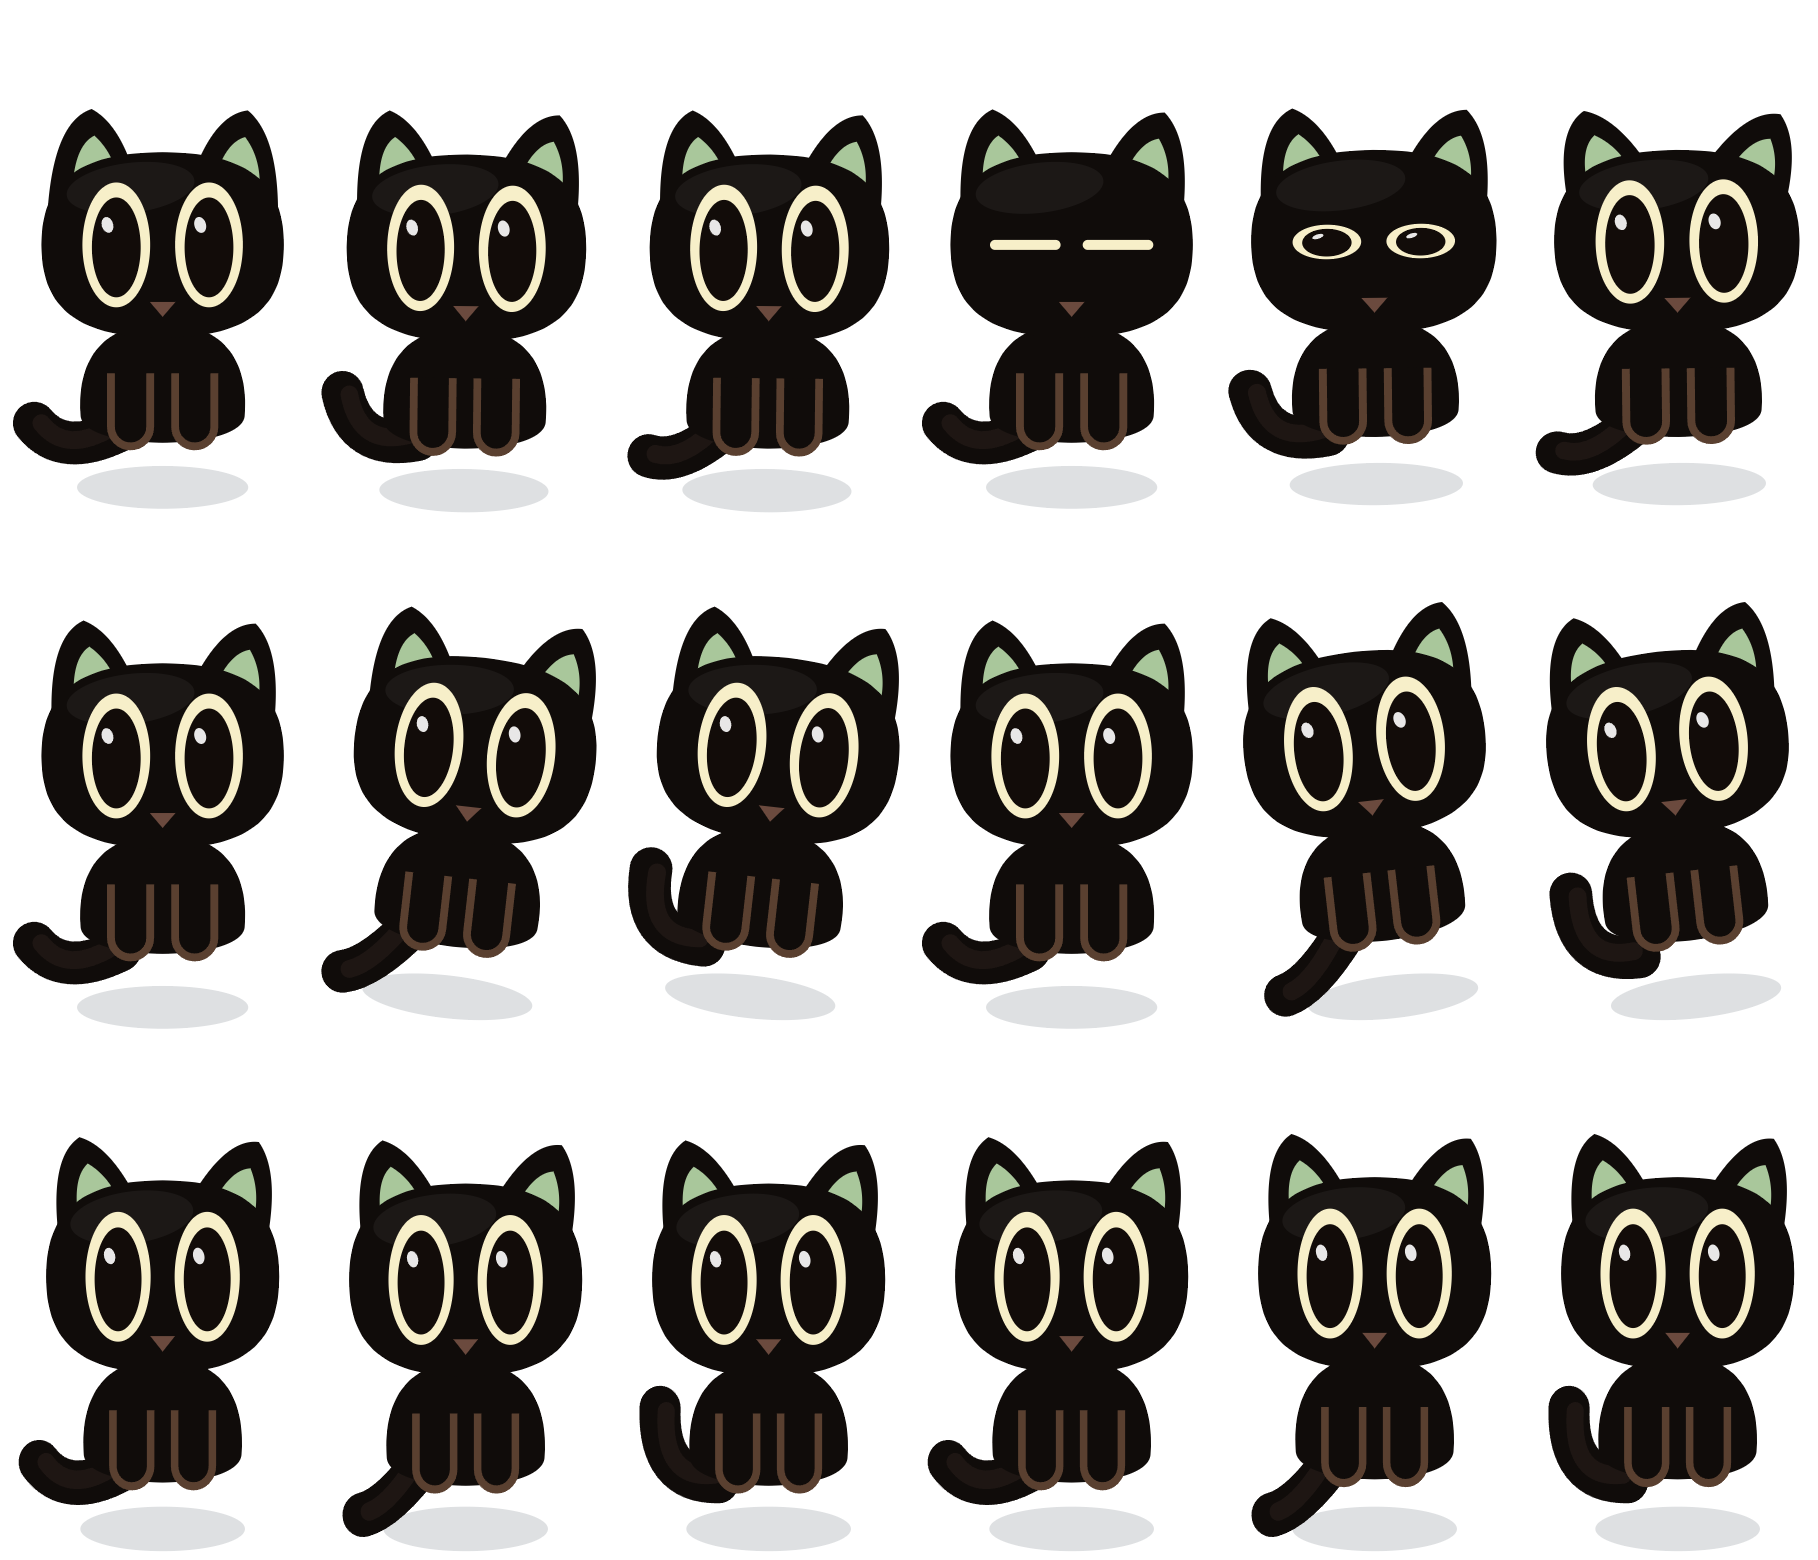
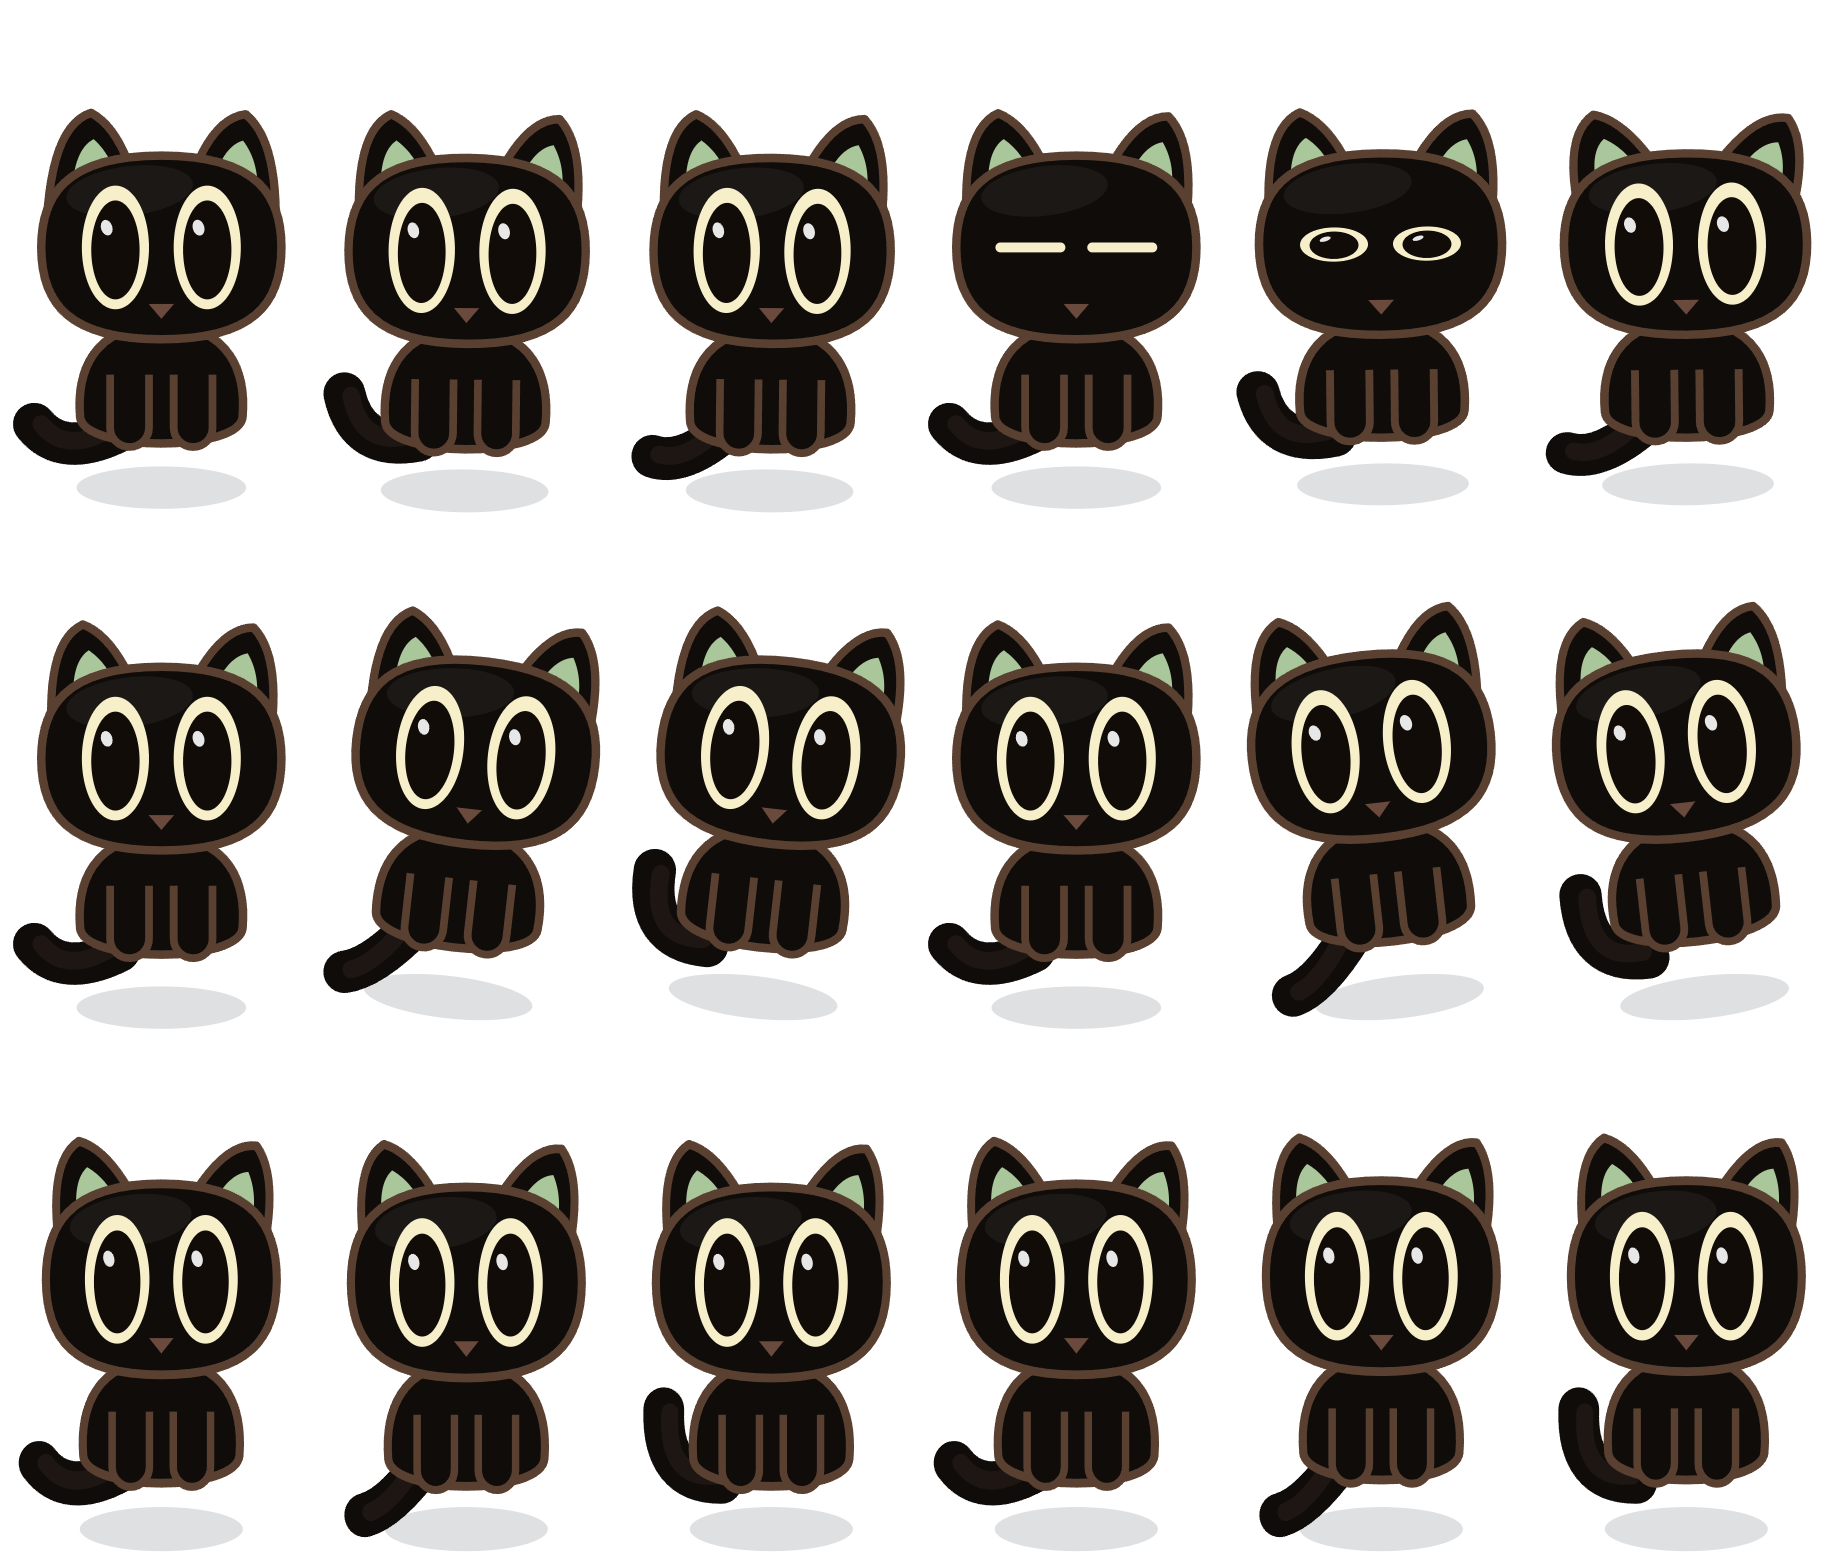
大眼黑猫：身体、头、耳朵补上褐色描边
之前只有前腿有褐色勾线，头/身体/耳朵都是纯填充，所以整体显得平。
现在统一加上 FUR_D(#5A4030) 描边，线宽 2.4：
- 身体外沿
- 头外沿
- 耳朵外沿（内耳那层不描，免得糊）

耳朵是先画、头是后画，所以耳朵埋在头里的那段描边会被头的填充盖住，
接缝处不会多出一道横线。

diff --git a/build/make-skins.js b/build/make-skins.js
@@ -1876,6 +1876,8 @@ function drawCat(ctx, q, p, kind) {
   ctx.bezierCurveTo(22, 36, -22, 36, -23, 26);
   ctx.bezierCurveTo(-24, 14, -20, 0, 0, 0);
   ctx.closePath(); ctx.fill();
+    ctx.strokeStyle = FUR_D; ctx.lineWidth = 2.4; ctx.lineJoin = 'round'; ctx.stroke();
+
 
   /* 前腿：从【胸口】直直垂到地上的两条管子。
      颜色和身体一样，只给管子的边缘描一道深色线把它勾出来。
@@ -1910,6 +1912,7 @@ function drawCat(ctx, q, p, kind) {
     ctx.quadraticCurveTo(-12, -16, 2, -19);
     ctx.quadraticCurveTo(14, -11, 14, 24);
     ctx.closePath(); ctx.fill();
+    ctx.strokeStyle = FUR_D; ctx.lineWidth = 2.4; ctx.lineJoin = 'round'; ctx.stroke();
     /* 内耳灰绿 */
     ctx.fillStyle = INNER;
     ctx.beginPath();
@@ -1929,6 +1932,8 @@ function drawCat(ctx, q, p, kind) {
   ctx.bezierCurveTo(-26, 4, -34, -6, -34, -22);
   ctx.bezierCurveTo(-34, -36, -28, -48, 0, -48);
   ctx.closePath(); ctx.fill();
+    ctx.strokeStyle = FUR_D; ctx.lineWidth = 2.4; ctx.lineJoin = 'round'; ctx.stroke();
+
   ctx.fillStyle = 'rgba(255,255,255,.05)';
   ctx.beginPath(); ctx.ellipse(-9, -38, 18, 7, -0.12, 0, TAU); ctx.fill();
 
